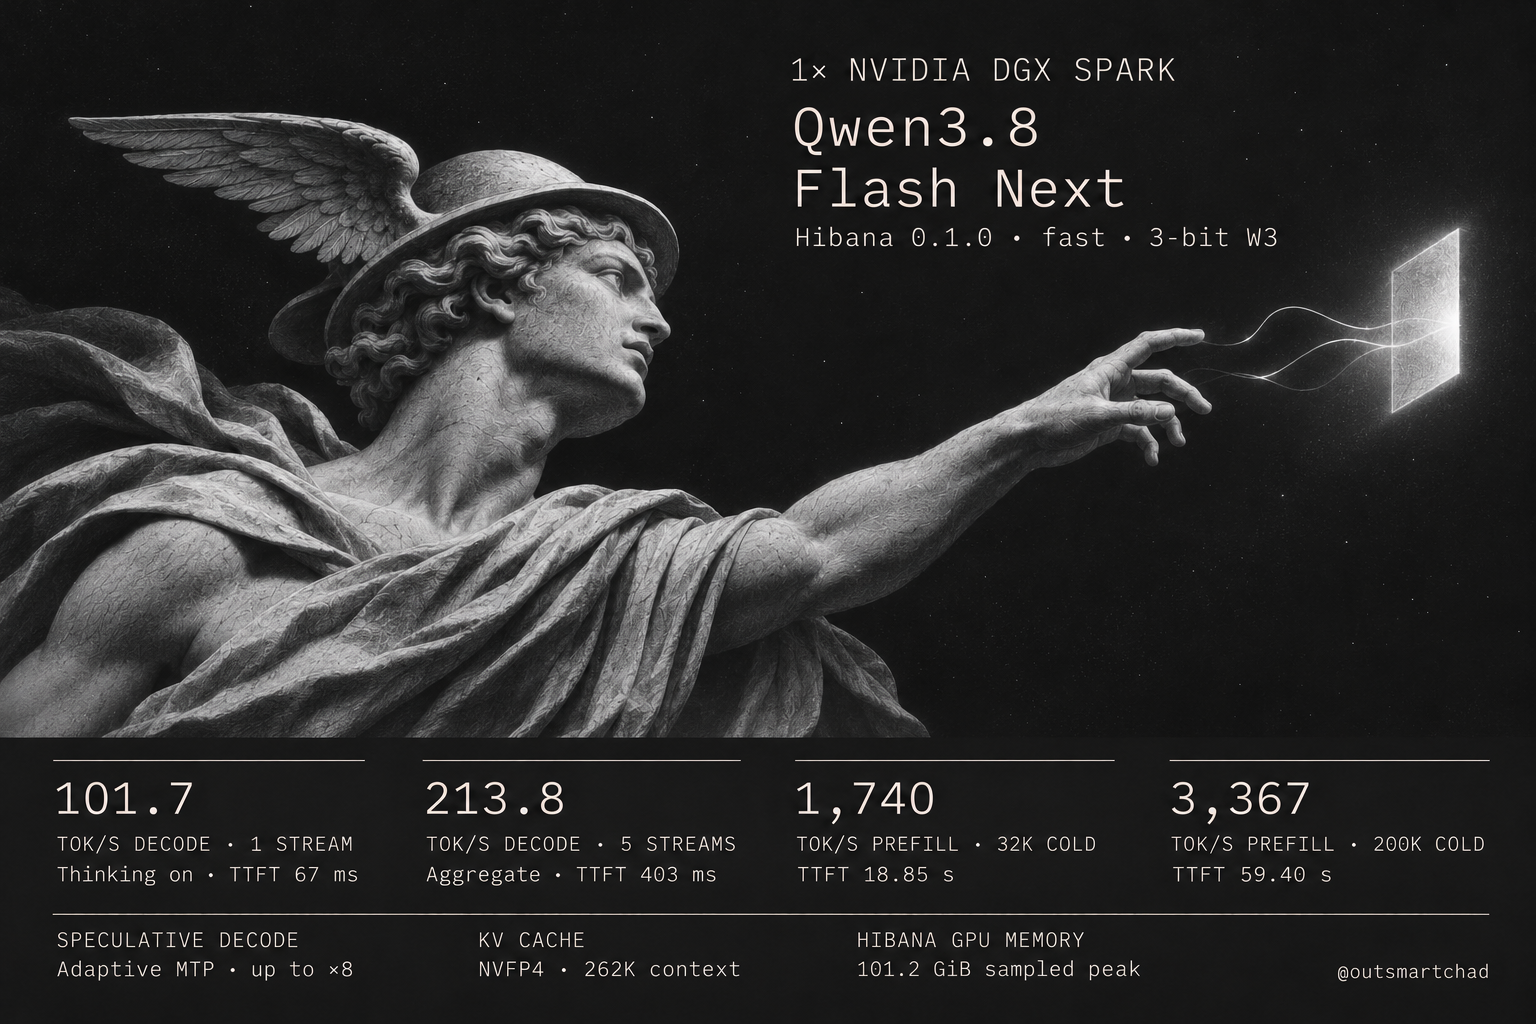
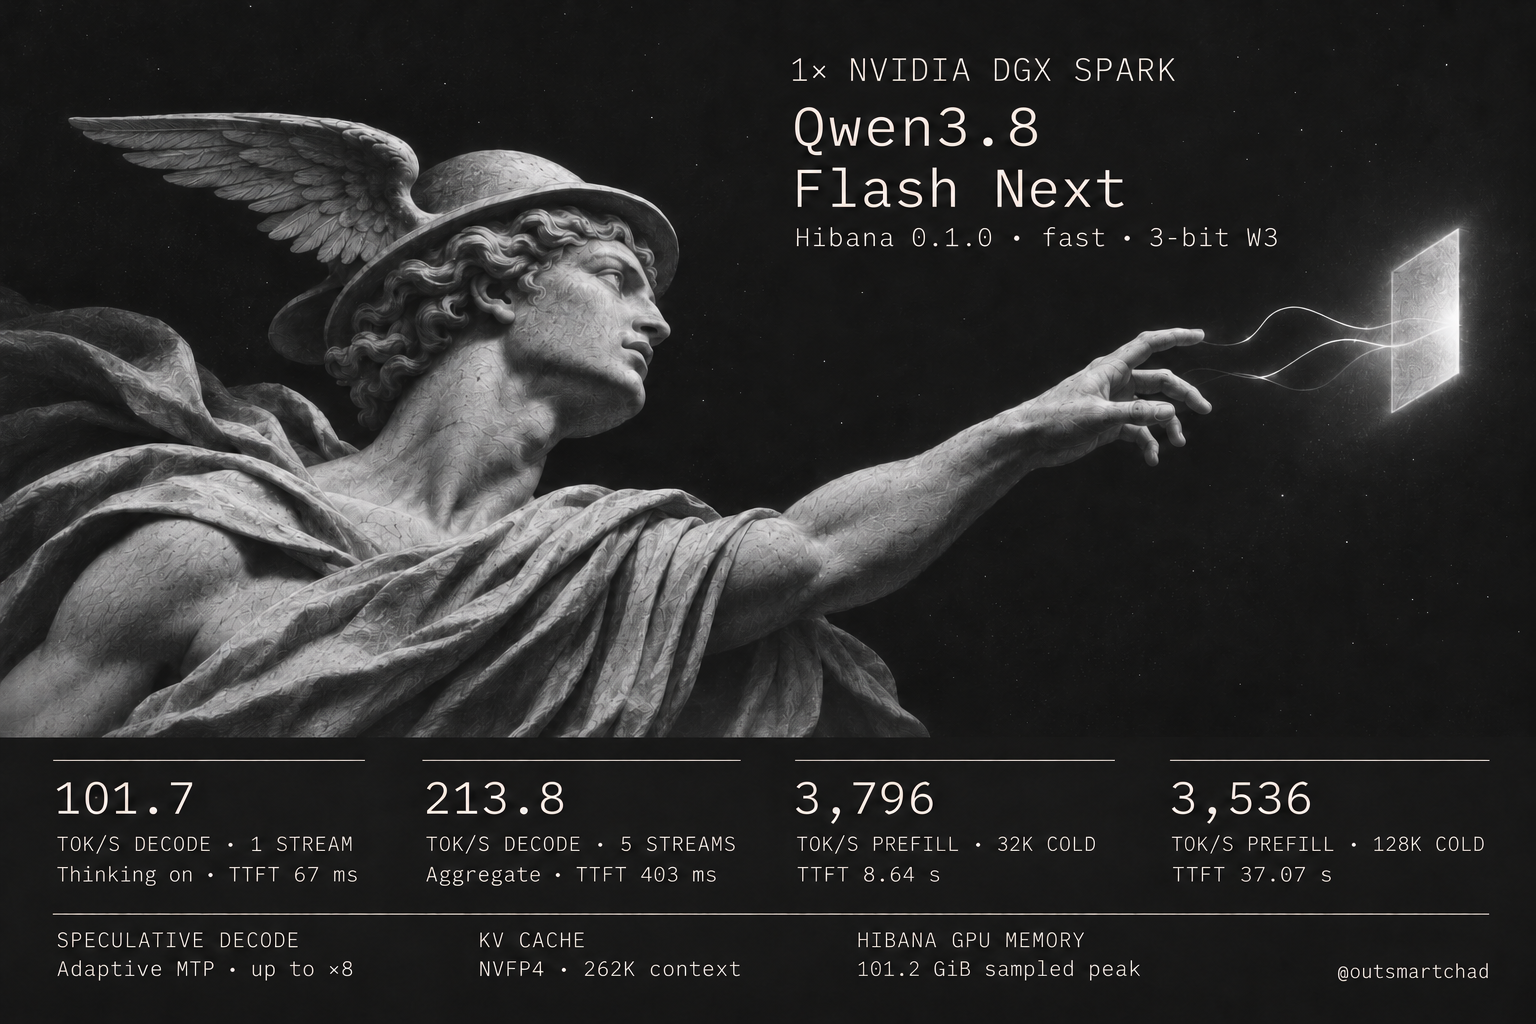
Standardize Hibana cold prefill at 32K and 128K

diff --git a/bin/prefill.py b/bin/prefill.py
@@ -10,7 +10,9 @@ from pathlib import Path
 from benchmark import BASE_URL, CURL, MODEL, api, stream
 
 REGIONS = ("cedar", "bay", "canyon", "delta", "field", "grove", "hill", "lake")
-SEED = 2026112032
+SEED = 2026112132
+TARGETS = (32768, 131072)
+REPETITIONS = 3
 
 
 def long_prompt(seed, rows):
@@ -32,8 +34,8 @@ def token_count(prompt):
     return api("/v1/tokenize", {"prompt": prompt}, timeout=30)["count"]
 
 
-def prefill(target):
-    seed = SEED + target
+def prefill(target, repetition):
+    seed = SEED + target + repetition * 1_000_000
     calibration, _ = long_prompt(seed, 64)
     count = round(target * 64 / token_count(calibration))
     for _ in range(5):
@@ -52,6 +54,7 @@ def prefill(target):
     if abs(row["prompt_tokens"] - target) > target * 0.005:
         raise RuntimeError(f"Prompt count after chat formatting did not reach {target}")
     row.update(target_prompt_tokens=target, tokenized_raw_prompt_tokens=text_tokens,
+               repetition=repetition, prompt_seed=seed,
                exact_key_found=answer.strip() == marker, expected_key=marker,
                returned_answer=answer.strip(),
                prompt_tokens_per_second_to_first_token=row["prompt_tokens"] / row["first_token_seconds"])
@@ -63,24 +66,32 @@ def main():
     parser.add_argument("output", type=Path)
     output = parser.parse_args().output
     output.parent.mkdir(parents=True, exist_ok=True)
-    targets = [32768, 200000]
+    warmups = [measure(target, 0) for target in TARGETS]
     rows = []
-    for target in targets:
-        print(f"Starting fresh prompt near {target:,} tokens", file=sys.stderr, flush=True)
-        row = prefill(target)
-        rows.append(row)
-        print(f"{row['prompt_tokens']:,} input tokens, "
-              f"{row['prompt_tokens_per_second_to_first_token']:.0f} tok/s, "
-              f"TTFT {row['first_token_seconds']:.2f}s, "
-              f"retrieval {'passed' if row['exact_key_found'] else 'failed'}",
-              file=sys.stderr, flush=True)
-        save(rows, output)
+    for repetition in range(1, REPETITIONS + 1):
+        order = TARGETS if repetition % 2 else TARGETS[::-1]
+        for target in order:
+            rows.append(measure(target, repetition))
+            save(rows, warmups, output)
 
 
-def save(rows, destination):
+def measure(target, repetition):
+    phase = f"Sample {repetition}/{REPETITIONS}" if repetition else "Warm-up"
+    print(f"{phase}: fresh prompt near {target:,} tokens", file=sys.stderr, flush=True)
+    row = prefill(target, repetition)
+    print(f"{row['prompt_tokens']:,} input tokens, "
+          f"{row['prompt_tokens_per_second_to_first_token']:.0f} tok/s, "
+          f"TTFT {row['first_token_seconds']:.2f}s, "
+          f"retrieval {'passed' if row['exact_key_found'] else 'failed'}",
+          file=sys.stderr, flush=True)
+    return row
+
+
+def save(rows, warmups, destination):
     payload = {"model": MODEL, "profile": "hibana-fast", "seed": SEED,
                "thinking": False, "temperature": 0, "metric": "prompt_tokens / TTFT",
-               "prompts": rows}
+               "target_prompt_tokens": list(TARGETS), "samples_per_target": REPETITIONS,
+               "warmups": warmups, "prompts": rows}
     temp = destination.with_suffix(".tmp")
     temp.write_text(json.dumps(payload, ensure_ascii=False, indent=2) + "\n")
     temp.replace(destination)

diff --git a/docs/benchmarking.md b/docs/benchmarking.md
@@ -32,12 +32,12 @@ For KV format, read `config.kv_format` in the raw Hibana runtime record. The top
 With only the dedicated Hibana benchmark server running and the URL and model variables from the README exported, run:
 
 ```bash
-python3 bin/prefill.py runs/fast.prefill.json
+python3 bin/prefill.py runs/fast.prefill-32k-128k.json
 ```
 
-The script sizes two synthetic inventory prompts with Hibana's tokenizer, flushes the server's prefix cache before each generation, and validates the prompt-token counts and cache status from streamed usage. It measures 32K first and 200K second, once each. Rate is client-observed prompt tokens divided by time to first token. TTFT includes request handling, prefill, any first-use overhead, and initial decode. Interpret the two sizes as observations from that sequence.
+The script targets 32,768 and 131,072 input tokens using synthetic inventory prompts. It warms up once at each size, then alternates which size runs first over three rounds. Each sample uses fresh prompt content, flushes the server's prefix cache, and validates zero cached tokens from streamed usage. Rate is the actual prompt tokens divided by client time to first token. TTFT includes request handling, prefill, and first-token generation. The table reports median tok/s and median TTFT across the three samples at each size.
 
-For memory, the Spark ran `nvidia-smi --query-compute-apps=pid,used_memory --format=csv,noheader,nounits -lms 200` from before launch through decode and prefill. We filtered the samples using the container's host PID. The published peak is the maximum per-process GPU memory sample, converted from MiB to GiB. The recorded series includes startup and workload samples.
+For the earlier 32K/200K run, the Spark ran `nvidia-smi --query-compute-apps=pid,used_memory --format=csv,noheader,nounits -lms 200` from before launch through decode and prefill. We filtered the samples using the container's host PID. The published peak is the maximum per-process GPU memory sample, converted from MiB to GiB. The recorded series includes startup and workload samples.
 
 ### Raw artifacts
 
@@ -45,4 +45,5 @@ For memory, the Spark ran `nvidia-smi --query-compute-apps=pid,used_memory --for
 - Hibana exact · [Decode](../results/exact.decode.json) · [Chinese and tool calls](../results/exact.checks.json) · [Runtime settings](../results/exact.server.json)
 - Hibana fast · [Decode](../results/fast.decode.json) · [Chinese and tool calls](../results/fast.checks.json) · [Runtime settings](../results/fast.server.json)
 - [Base revision](../results/target.json) · [W3 revision](../results/w3.json) · [Image digest](../results/hibana.image.txt)
-- [Cold prefill](../results/fast.prefill.json) · [Per-process memory samples](../results/fast.memory.json) · [Decode sweep used for memory sampling](../results/fast.decode-memory-workload.json)
+- [32K/128K cold prefill and warm-ups](../results/fast.prefill-32k-128k.json)
+- [Earlier 32K/200K run](../results/fast.prefill.json) · [Per-process memory samples](../results/fast.memory.json) · [Decode sweep used for memory sampling](../results/fast.decode-memory-workload.json)

diff --git a/README.md b/README.md
@@ -2,7 +2,7 @@
 
 **101.7 tok/s single-stream prose decode** with Hibana `fast` and thinking on. The same Spark reached **220.9 tok/s aggregate at four streams** and **213.8 tok/s at five**. This recipe reproduces the serving configuration for both Hibana profiles and includes the matched TensorFold control, Traditional Chinese prompts, and OpenAI tool-call checks.
 
-![Qwen3.8 Flash Next on Hibana fast. Decode 101.7 tok/s at one stream and 213.8 at five. Cold prefill 1,740 tok/s at 32K and 3,367 at 200K. Peak sampled GPU memory 101.2 GiB.](assets/hibana-fast-101-7.png)
+![Qwen3.8 Flash Next on Hibana fast. Decode 101.7 tok/s at one stream and 213.8 at five. Cold prefill 3,796 tok/s at 32K and 3,536 at 128K. Peak sampled GPU memory 101.2 GiB.](assets/hibana-fast-101-7.png)
 
 ## Performance on one DGX Spark
 
@@ -22,16 +22,16 @@ The previous TensorFold run reached **56.0 tok/s at one stream** and **125.6 tok
 
 ## Cold prefill and peak memory
 
-A second `fast` run measured two fresh prompts with thinking off and temperature zero. The rate is prompt tokens divided by client TTFT. Both prompts reported zero cached tokens and returned the expected audit code.
+The standard prefill sizes are **32K and 128K**. Hibana `fast` ran three fresh requests at each size after warm-up, with thinking off, temperature zero and zero cached prompt tokens.
 
-| Prompt tokens | Prefill tok/s to first token | TTFT | Retrieved audit code |
-|---:|---:|---:|:---|
-| 32,794 | 1,740 | 18.85 s | Yes |
-| 199,981 | 3,367 | 59.40 s | Yes |
+| Target | Actual prompt tokens | Median prefill tok/s to first token | Median TTFT | Audit code |
+|---:|---:|---:|---:|---:|
+| 32K | 32,750–32,784 | 3,796 | 8.64 s | 3/3 |
+| 128K | 131,085–131,126 | 3,536 | 37.07 s | 3/3 |
 
-Peak sampled memory for the Hibana GPU process was **101.2 GiB**. Sampling covered startup, the 1–5 stream decode sweep, and both prefill requests. The card keeps the decode values from the matched comparison above.
+The sampled Hibana GPU process peak of **101.2 GiB** comes from the earlier memory run, which covered startup, 1–5 stream decode, and 32K/200K prefill. The card uses decode values from the matched comparison above and prefill medians from the 32K/128K run.
 
-[Cold prefill results](results/fast.prefill.json) · [Memory samples](results/fast.memory.json) · [Decode workload from the memory run](results/fast.decode-memory-workload.json)
+[32K/128K samples](results/fast.prefill-32k-128k.json) · [Earlier 32K/200K run](results/fast.prefill.json) · [Memory samples](results/fast.memory.json)
 
 ## Exact and fast
 
